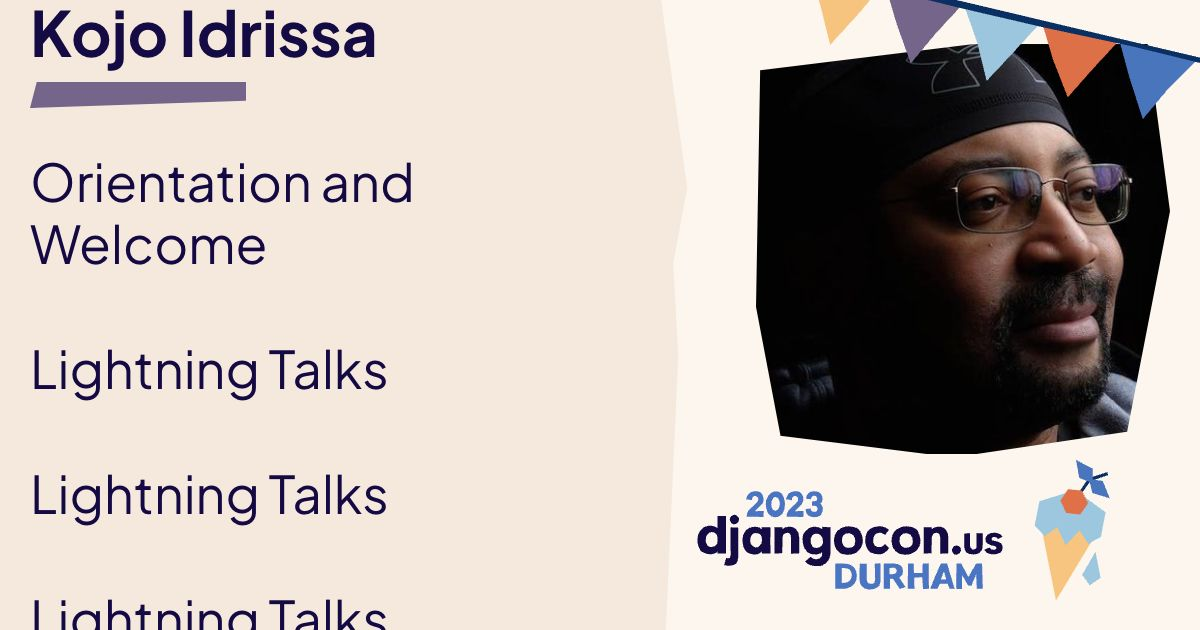
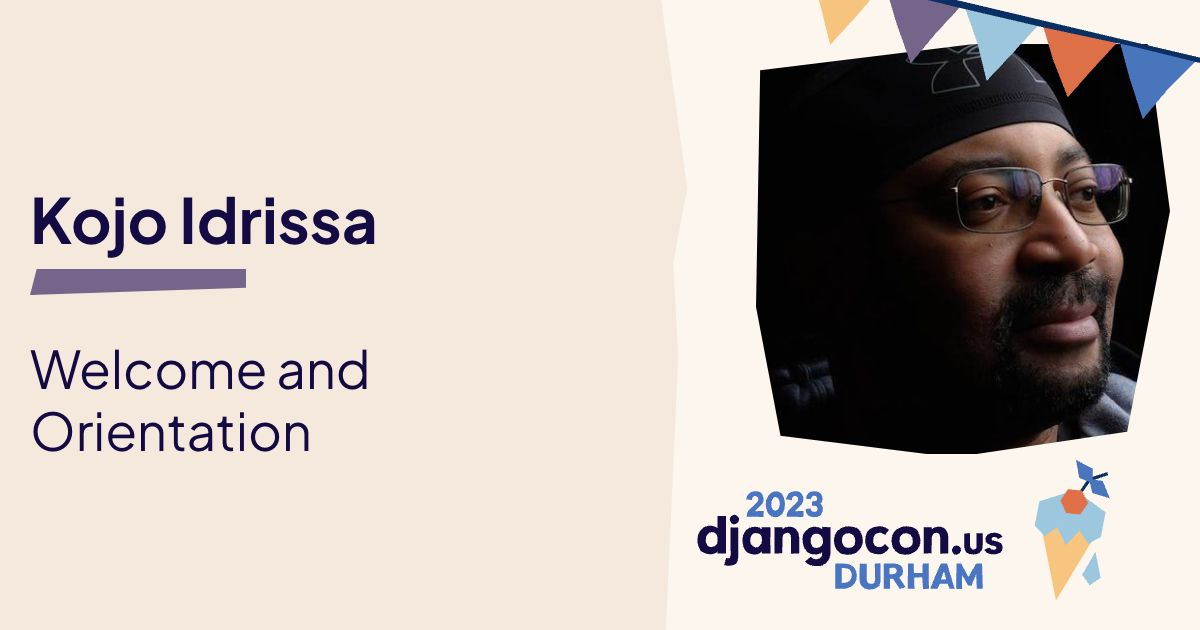
🎨 Regenerate speaker images to avoid the Kojo problem

diff --git a/_presenters/paul-gilzow.md b/_presenters/paul-gilzow.md
@@ -4,6 +4,7 @@ hidden: false
 layout: speaker-template
 mastodon: https://higheredweb.social/@gilzow
 name: Paul Gilzow
+override_schedule_title: "Introduction to GitHub Actions: Understanding Key Terms and Building Your First GitHub Action"
 permalink: /presenters/paul-gilzow/
 photo_url: /static/img/presenters/paul-gilzow.jpeg
 pronouns: he/him/his

diff --git a/_presenters/calvin-hendryx-parker.md b/_presenters/calvin-hendryx-parker.md
@@ -4,6 +4,7 @@ hidden: false
 layout: speaker-template
 mastodon: https://fosstodon.org/@calvinhp
 name: Calvin Hendryx-Parker
+override_schedule_title: Powering Energy Storage Beyond Excel
 permalink: /presenters/calvin-hendryx-parker/
 photo_url: /static/img/presenters/calvin-hendryx-parker.jpg
 slug: calvin-hendryx-parker

diff --git a/_presenters/kojo-idrissa.md b/_presenters/kojo-idrissa.md
@@ -4,6 +4,7 @@ github: kojoidrissa
 layout: speaker-template
 mastodon: https://fosstodon.org/@kojoidrissa
 name: Kojo Idrissa
+override_schedule_title: Welcome and Orientation
 permalink: /presenters/kojo-idrissa/
 photo_url: /static/img/organizers/kojo.jpg
 slug: kojo-idrissa

diff --git a/_presenters/peter-grandstaff.md b/_presenters/peter-grandstaff.md
@@ -3,6 +3,7 @@ github: petergrand
 layout: speaker-template
 mastodon: null
 name: Peter Grandstaff
+override_schedule_title: Opening and Closing Remarks
 permalink: /presenters/peter-grandstaff/
 photo_url: /static/img/organizers/peter-grandstaff.jpg
 slug: peter-grandstaff
